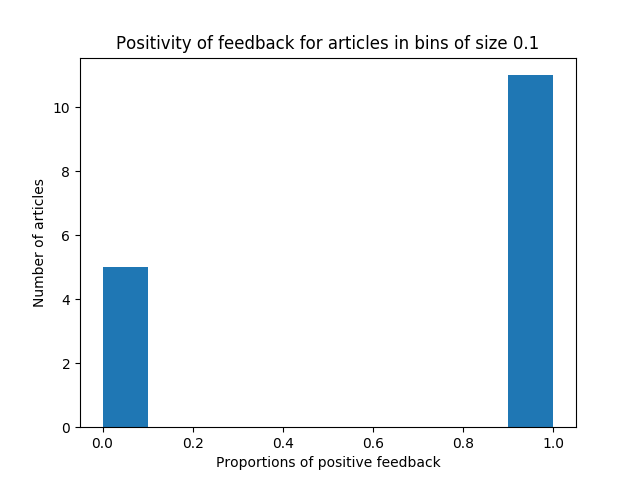
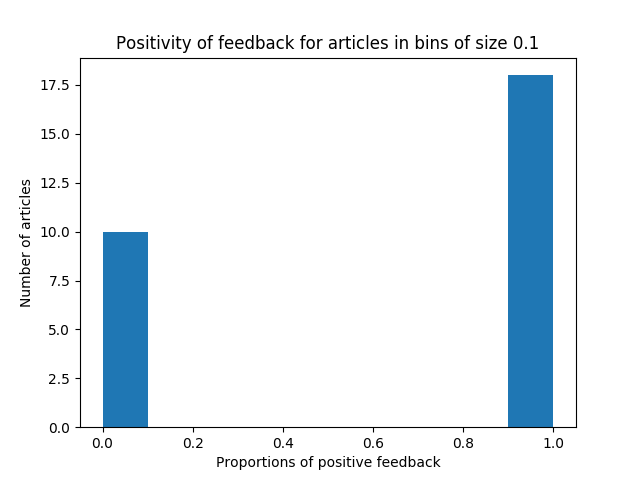
tested new scripts, ran politics per site on lots of urls

diff --git a/aws_python/feedback/feedback_analysis.py b/aws_python/feedback/feedback_analysis.py
@@ -7,8 +7,10 @@ from classifiers.classifiers import classify
 
 
 def get_all_urls(db):
+    # get the links table
     links = db.get_all_links()
     urls = []
+    # get the target urls from the links
     for l in links:
         urls.append(l['to'])
 
@@ -16,15 +18,19 @@ def get_all_urls(db):
 
 
 def plot_pos_percentages(db, urls=None):
+    # get urls if needed
     if urls is None:
         urls = get_all_urls(db)
 
+    # get the percentage of positive feedback for each url
     percentages = []
     for url in urls:
         percentages.append(db.percentage_positive(url))
 
+    # clear the plot
     plt.clf()
 
+    # plot a histogram of the positivity of feedback in bins of 0.1
     plt.hist(percentages, bins=[x / 10 for x in range(11)])
     plt.title('Positivity of feedback for articles in bins of size 0.1')
     plt.xlabel('Proportions of positive feedback')
@@ -33,6 +39,7 @@ def plot_pos_percentages(db, urls=None):
 
 
 def plot_liked_alternate_or_same_political_leaning(db, heur_db=None):
+    # get heuristic db if not passed
     if heur_db is None:
         heur_db = HeuristicsDB()
 
@@ -62,6 +69,7 @@ def plot_liked_alternate_or_same_political_leaning(db, heur_db=None):
 
         to_from_rev = (from_pol, to_pol, review)
 
+        # increment correct count
         if to_from_rev == (0, 0, True):
             left_left_pos += 1
         elif to_from_rev == (0, 0, False):
@@ -81,13 +89,16 @@ def plot_liked_alternate_or_same_political_leaning(db, heur_db=None):
         else:
             print('plot_liked_alternate_or_same_political_leaning: malformed tuple')
 
+    # calculate pos proportions
     left_left = left_right_pos / (left_right_pos + left_left_neg) if left_right_pos > 0 else 0
     left_right = left_right_pos / (left_right_pos + left_right_neg) if left_right_pos > 0 else 0
     right_left = right_left_pos / (right_left_pos + right_left_neg) if right_left_pos > 0 else 0
     right_right = right_right_pos / (right_right_pos + right_right_neg) if right_right_pos > 0 else 0
 
+    # clear plot
     plt.clf()
 
+    # plot bar chart for each type of political link
     x = np.arange(4)
     plt.bar(x, [left_left, left_right, right_left, right_right])
     plt.xticks(x, ('left-left', 'left-right', 'right-left', 'right-right'))
@@ -99,28 +110,35 @@ def plot_liked_alternate_or_same_political_leaning(db, heur_db=None):
 
 
 def plot_politics_per_site(urls, heur_db=None):
+    # get db if necessary
     if heur_db is None:
         heur_db = HeuristicsDB()
 
+    # get the count of left and right leaning articles for each site
     urls_to_counts = {}
     for url in urls:
         article = extract_content(url)
         entry = heur_db.read_article(url)
+        # use cached heuristics when possible
         if entry is None:
             heurs = classify(article)
         else:
             heurs = entry['heuristics']
 
+        # cut url down to site
         url_stripped = urlsplit(url).netloc
 
+        # initialise counts if needed
         if urls_to_counts.get(url_stripped) is None:
             urls_to_counts[url_stripped] = {'left': 0, 'right': 0}
 
+        # increment correct count
         if heurs['source_politics'] == 0:
             urls_to_counts[url_stripped]['left'] += 1
         else:
             urls_to_counts[url_stripped]['right'] += 1
 
+    # for each url plot a bar on the bar chart showing its left proportion
     unique_urls = urls_to_counts.keys()
     short_urls = [url.split('.')[1] for url in urls_to_counts.keys()]
     url_left_proportions = [urls_to_counts[url]['left'] / (urls_to_counts[url]['left'] +
@@ -136,7 +154,9 @@ def plot_politics_per_site(urls, heur_db=None):
 
 
 def amount_of_user_feedback(db):
+    # get the links
     links = db.get_all_links()
+    # count how many clicked links actually have feedback
     feedback = 0
     clicked = 0
     for l in links:

diff --git a/aws_python/do_analysis.py b/aws_python/do_analysis.py
@@ -1,5 +1,7 @@
 from mongo_feedback.database_access import FeedbackDB
 import feedback.feedback_analysis as fba
+import argparse
+import os
 
 db = FeedbackDB()
 
@@ -21,6 +23,25 @@ urls = ['http://www.bbc.co.uk/sport/football/43278166',
         'http://www.huffingtonpost.co.uk/entry/squatters-activists-london_uk_5a993b81e4b0479c02516c21?utm_hp_ref=uk-homepage',
         'http://www.huffingtonpost.co.uk/entry/tory-mps-will-not-get-free-vote-on-brexit-deal-says-david-lidington_uk_5a9bf07ce4b089ec353b2390?43&utm_hp_ref=uk-homepage'
 ]
-fba.plot_politics_per_site(urls)
 
-print(fba.amount_of_user_feedback())
+parser = argparse.ArgumentParser()
+parser.add_argument("-f1", help='file1 to run politics per site on', default='')
+parser.add_argument("-f2", help='file1 to run politics per site on', default='')
+
+args = parser.parse_args()
+urls_to_pass = []
+if args.f1 == '' and args.f2 == '':
+    urls_to_pass = urls
+elif args.f1 != '':
+    with open(args.f1) as f:
+        content = f.readlines()
+        urls_to_pass += [x.strip() for x in content]
+elif args.f2 != '':
+    with open(args.f2) as f:
+        content = f.readlines()
+        urls_to_pass += [x.strip() for x in content]
+
+
+fba.plot_politics_per_site(urls_to_pass)
+
+print(fba.amount_of_user_feedback(db))
